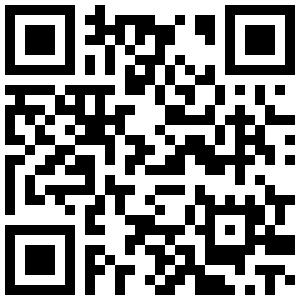
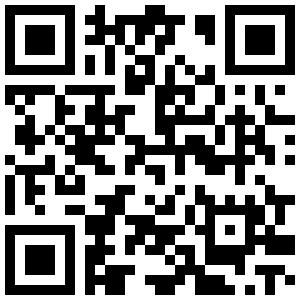
实现支付

diff --git a/src/main/java/cn/juntai/wxpaydemo/pay/WXPay.java b/src/main/java/cn/juntai/wxpaydemo/pay/WXPay.java
@@ -31,7 +31,7 @@ public class WXPay {
     public static void main(String[] args) throws Exception {
 
         // 生成二维码，完成支付
-         unifiedOrder(new Order());
+//         unifiedOrder(new Order());
         // 商家扫用户手机的条形码
 //        scanCodeToPay("");
 
@@ -135,9 +135,9 @@ public class WXPay {
     /*
     下单：生成二维码
      */
-    public static void unifiedOrder(Order order) {
+     public static void unifiedOrder(Order order) {
         Map<String, String> resultMap = new HashMap();
-        String openid = "ouR0E1oP5UGTEBce8jZ_sChfH26g";
+       String openid = "ouR0E1oP5UGTEBce8jZ_sChfH26g";
         MyConfig config = null;
         cn.juntai.wxpaydemo.sdk.WXPay wxpay = null;
         try {
@@ -160,7 +160,7 @@ public class WXPay {
         //支付金额，需要转成字符串类型，否则后面的签名会失败
         int total_fee = (int)(order.getAprice()*100);//100分：1块钱
         //商品描述
-        String body = order.getOid();
+        String body = order.getPlace();
         //商户订单号
         String out_trade_no = WXPayUtil.generateNonceStr();
         //统一下单接口参数
@@ -170,12 +170,12 @@ public class WXPay {
         data.put("mch_id", "1623889015");
         // 回调接口，必须是一个域名，不能使用IP
         // 腾讯会自动调用你（程序自己提供的接口）的接口，给你发送支付结果的数据，数据格式：xml格式
-        data.put("notify_url", "http://419276x8r3.qicp.vip/result");
+        data.put("notify_url", "http://4775v84h22.qicp.vip/result");
         data.put("out_trade_no", out_trade_no);//交易号
         data.put("spbill_create_ip", spbill_create_ip);//下单的电脑IP地址
         data.put("trade_type", "NATIVE");//支付类型
         data.put("total_fee", String.valueOf(total_fee));
-        data.put("openid", openid);
+      //  data.put("openid", openid);
 
         try {
             Map<String, String> rMap = wxpay.unifiedOrder(data);

diff --git a/src/main/java/Shop/View/Order/OrderMain.java b/src/main/java/Shop/View/Order/OrderMain.java
@@ -8,7 +8,9 @@ import Shop.View.Order_Info.OrderInfoView;
 import Shop.View.Pay.payView;
 import Shop.util.ConnectionHandler;
 import Shop.util.ViewHandler;
+import cn.juntai.wxpaydemo.pay.WXPay;
 import com.mysql.cj.x.protobuf.MysqlxCrud;
+import com.sun.org.apache.xpath.internal.operations.Or;
 
 import java.awt.*;
 
@@ -118,9 +120,19 @@ public class OrderMain extends JFrame {
         button3.addActionListener(
                 (e)->{
                     int rowNo = table1.getSelectedRow();//获取所选的行号
+                    String Oid=(String) table1.getValueAt(rowNo, 0);
+                    String Place = (String)table1.getValueAt(rowNo,1);
                     Double Aprice=(Double)table1.getValueAt(rowNo, 2);
+                    String Info = (String)table1.getValueAt(rowNo,3);
+
+                    Order order = new Order();
+                    order.setOid(Oid);
+                    order.setAprice(Aprice);
+                    order.setPlace(Place);
+                    order.setInfo(Info);
 
                     this.setVisible(false);
+                    new WXPay().unifiedOrder(order);
                     new payView(Aprice).setVisible(true);
                 }
         );
